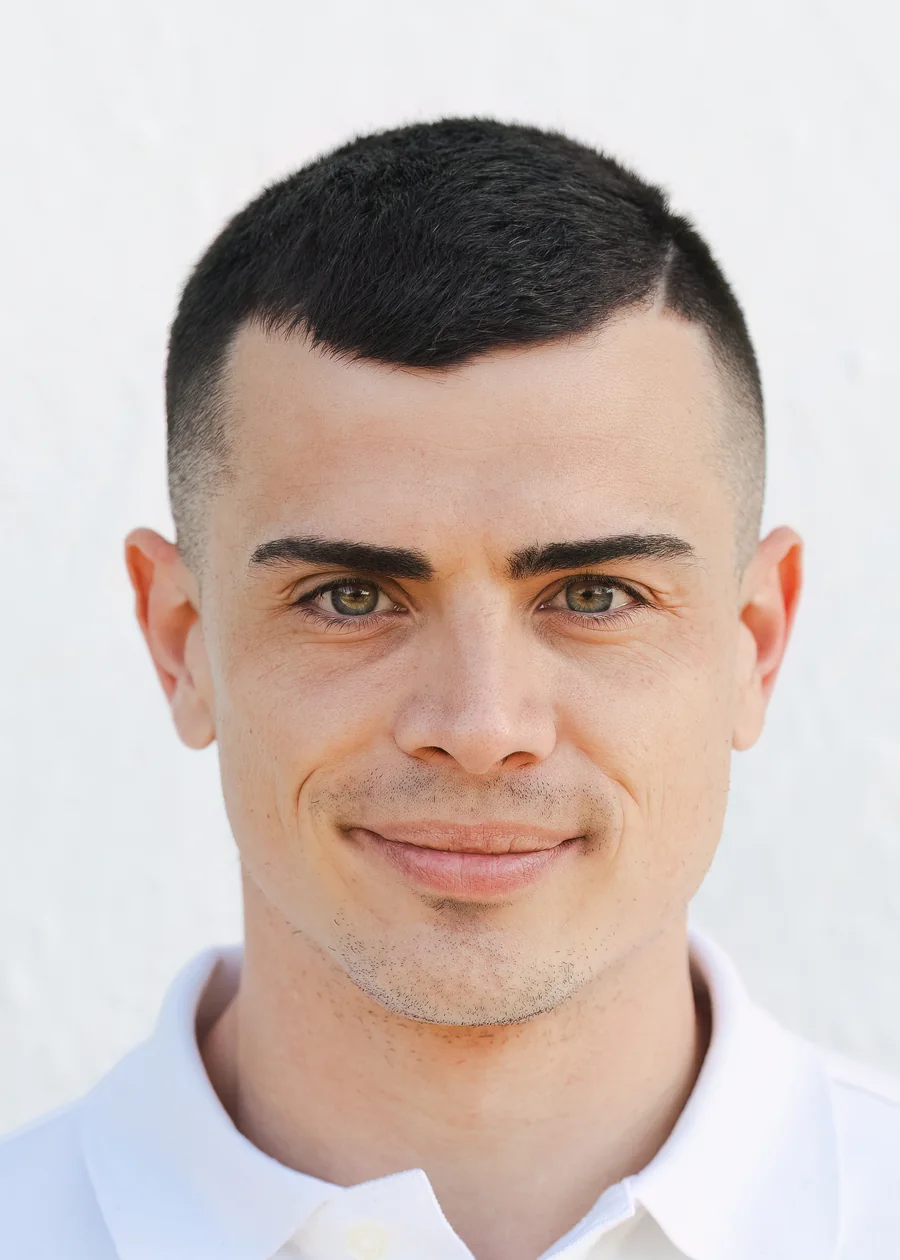
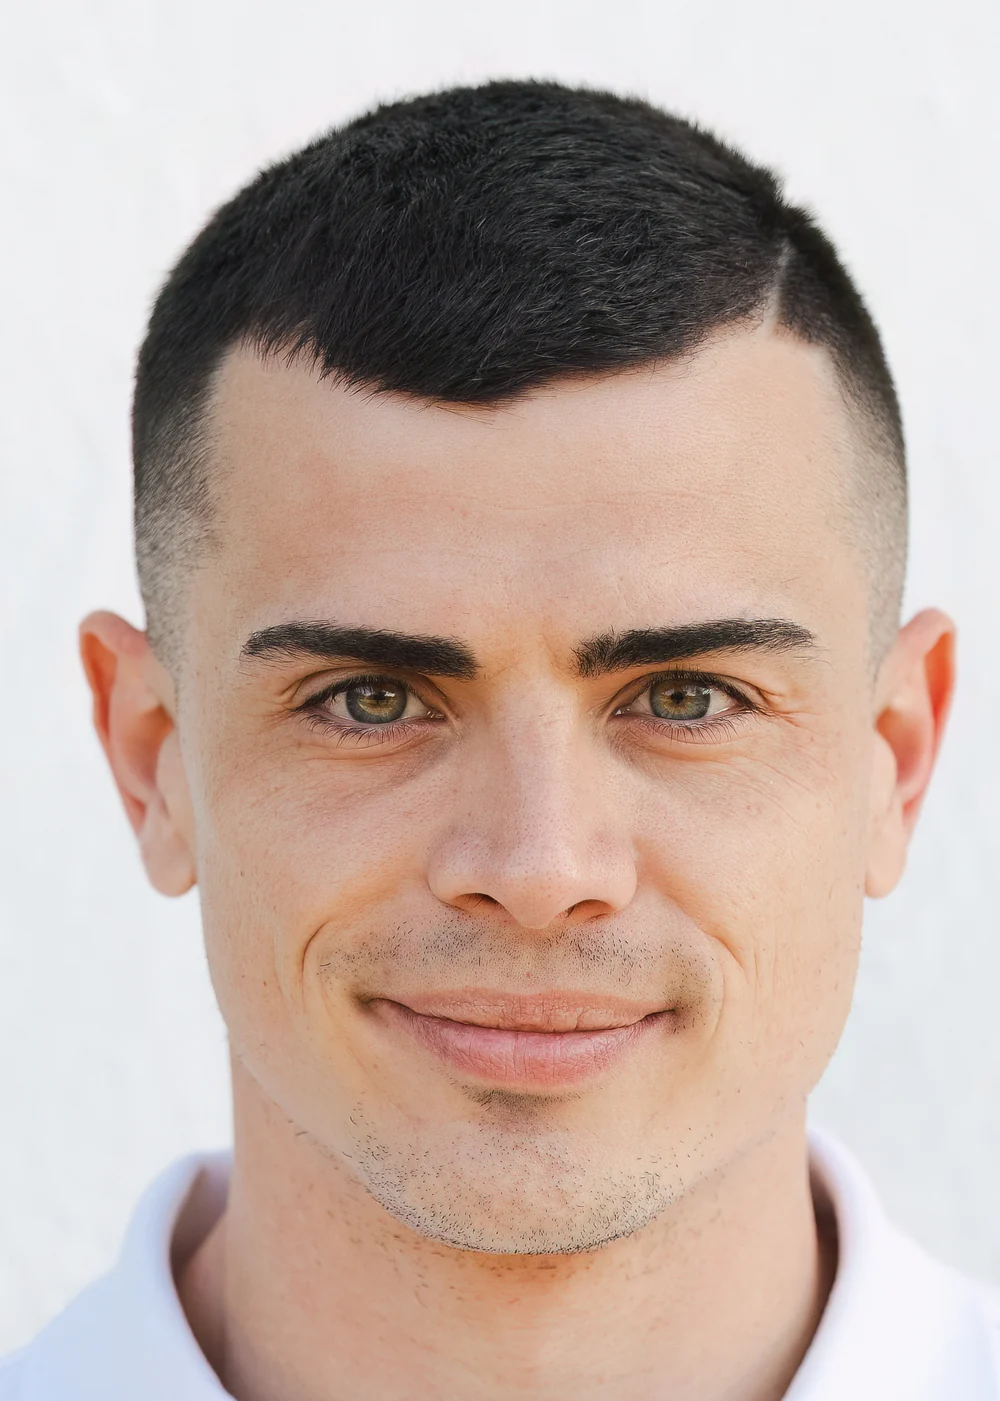
fix(founders-morph): natural color (drop cyan shadow tint), tighter crops
- The shadow lift tinted dark tones COOL (cyan), which turned Michele's
  shaved-head stubble into unnatural cyan stripes and cast the whole face blue.
  Make the lift WARM-NEUTRAL (1.0,0.92,0.82) and gentler (0.16 -> 0.12) so dark
  hair/beard stay their natural brown-dark, just visible against the navy bg.
- Tighter morph headshot crops (face + hair/beard fill the frame, collar and
  shoulders excluded) so all 60k particles land on the face and there's no
  stray white-collar blob at the bottom. Morph-only files; DOM images untouched.
- lumGamma default 0.7 -> 0.55 (fuller dark features without over-flattening).
- Disc overlap 1.9x -> 2.4x spacing so the cloud reads as continuous tone, not
  dusty dots.

Alessandro reads well; Michele improved but still the harder subject (glasses +
full beard + shaved-head stubble) — recognizability there is still open.

diff --git a/src/webgl/FounderPortraitMorph.tsx b/src/webgl/FounderPortraitMorph.tsx
@@ -97,7 +97,7 @@ const DEFAULT_SAT_FLOOR = 0;
  * out so dark features fill in. 0.7 keeps some brightness bias (facial form)
  * while giving Michele's beard / Alessandro's hair enough particles to read as
  * solid. Live-tunable via __sersanFounderMorph.setGamma. */
-const DEFAULT_LUM_GAMMA = 0.7;
+const DEFAULT_LUM_GAMMA = 0.55;
 /** Bright-neutral wall drop: cells brighter than BG_LUM_CEIL with chroma below
  * BG_CHROMA_CEIL are backdrop (white wall / shirt). Skin highlights carry chroma
  * so they survive; dark hair/beard is below the lum ceil so it survives too. */
@@ -106,10 +106,11 @@ const DEFAULT_BG_CHROMA_CEIL = 0.06;
 /** Modest emissive so faces stay photographic at rest (task: ~1.0–1.3). */
 const DEFAULT_EMISSIVE = 1.1;
 /** Shadow lift: near-black particles (Alessandro's hair, Michele's beard) match
- * the dark navy site bg and vanish; this raises them toward a faint cool tone so
- * the silhouette reads. Knee = luminance below which the lift applies. Picked on
- * the WebGPU desktop; live-tunable via __sersanFounderMorph.setShadowLift/Knee. */
-const DEFAULT_SHADOW_LIFT = 0.16;
+ * the dark navy site bg and vanish; this raises them toward a faint WARM-NEUTRAL
+ * tone (kept subtle — a cool tint made Michele's stubble read as cyan stripes) so
+ * the silhouette reads while staying natural. Knee = luminance below which the
+ * lift applies. Live-tunable via __sersanFounderMorph.setShadowLift/Knee. */
+const DEFAULT_SHADOW_LIFT = 0.12;
 const DEFAULT_SHADOW_KNEE = 0.28;
 /** LEGACY fallback (environmental) sources: PER-FOUNDER centred upper crop to
  * isolate each face — Alessandro and Michele sit differently in their
@@ -451,8 +452,9 @@ export function FounderPortraitMorph() {
     }
 
     // --- DENSITY: default disc size so ~count soft discs OVERLAP into tone -----
-    // spacing ≈ sqrt(stageArea_devpx / count); disc diameter ≈ 1.9× spacing so
-    // neighbours touch and the face reads as continuous shaded tone, not dots.
+    // spacing ≈ sqrt(stageArea_devpx / count); disc diameter ≈ 2.4× spacing so
+    // neighbours OVERLAP and the face reads as continuous shaded tone, not dusty
+    // dots (2.4 tuned live on the WebGPU desktop — 1.9 left visible gaps).
     const dprNow = Math.min(
       typeof window !== "undefined" ? window.devicePixelRatio || 1 : 1,
       2,
@@ -460,7 +462,7 @@ export function FounderPortraitMorph() {
     const areaDev =
       sr.width * dprNow * sr.height * dprNow * STAGE_FILL * STAGE_FILL;
     const spacingDev = Math.sqrt(Math.max(areaDev / count, 1));
-    const discDev = spacingDev * 1.9;
+    const discDev = spacingDev * 2.4;
     const defPointSize = THREE.MathUtils.clamp(
       (discDev * CAMERA_Z) / (dprNow * 1.05),
       10,

diff --git a/src/webgl/gpgpu/gpgpuNodeSim.ts b/src/webgl/gpgpu/gpgpuNodeSim.ts
@@ -1206,10 +1206,12 @@ export function createTextMorphComputeBuild(
         ),
       );
       base.assign(base.mul(uPortraitEmissive as unknown as AnyNode));
-      // Shadow lift: raise near-black particles (dark hair/beard) so they read
-      // against the dark navy site bg. darkMask = 1 at black → 0 at the knee
-      // luminance; the lift is tinted faintly cool to stay on-brand. Mid-flight
-      // (high speed → travel-tint bright) lum is high, so the lift self-disables.
+      // Shadow lift: raise near-black particles (dark hair/beard) just enough to
+      // read against the dark navy site bg. darkMask = 1 at black → 0 at the knee
+      // luminance. The lift is WARM-NEUTRAL (not cool) so hair/beard stay their
+      // natural brown-dark — a cool tint turned Michele's shaved-head stubble
+      // into unnatural cyan stripes. Mid-flight (high speed → bright travel tint)
+      // lum is high, so the lift self-disables and faces stay photographic.
       const lum = base.x
         .mul(0.2126)
         .add(base.y.mul(0.7152))
@@ -1220,7 +1222,7 @@ export function createTextMorphComputeBuild(
         1.0,
       );
       base.addAssign(
-        vec3(0.72, 0.9, 1.2)
+        vec3(1.0, 0.92, 0.82)
           .mul(uShadowLift as unknown as AnyNode)
           .mul(darkMask),
       );
